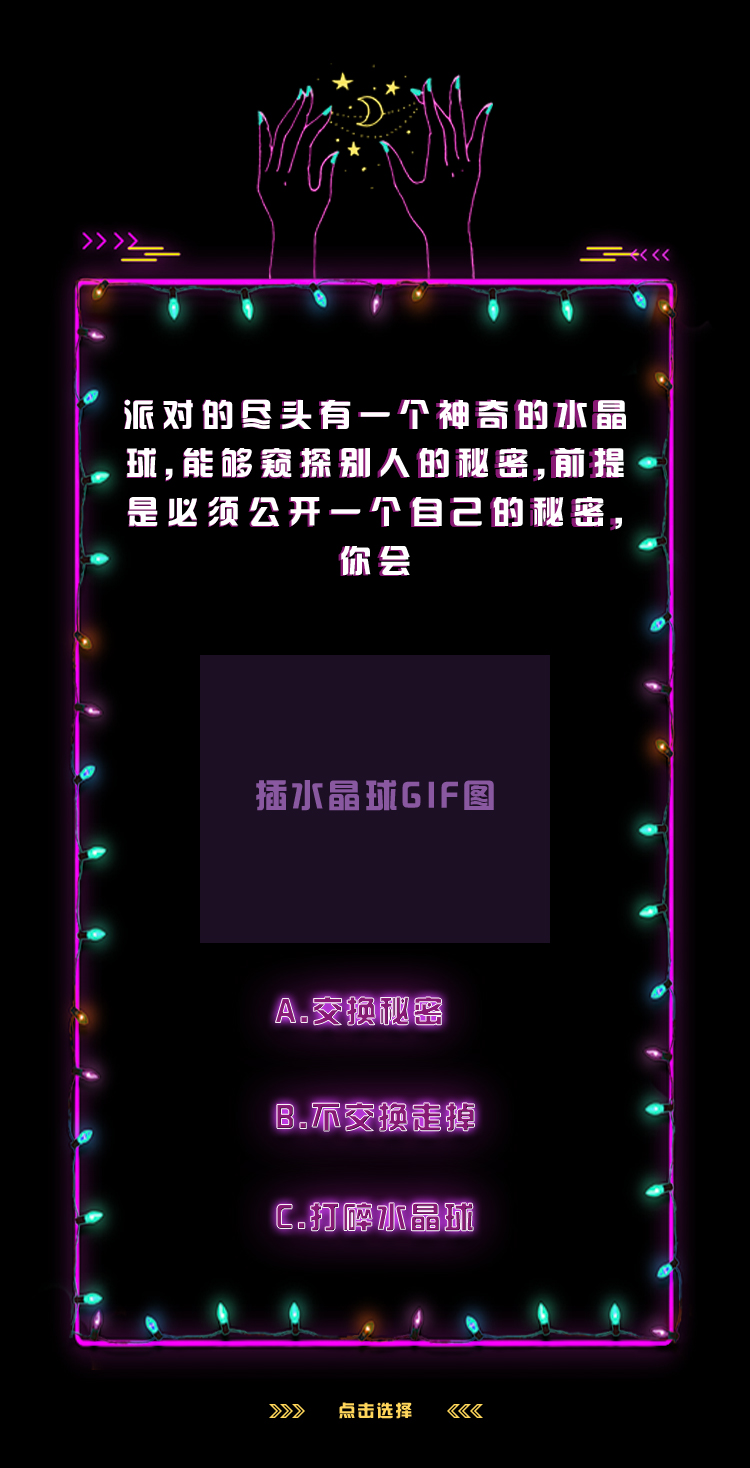
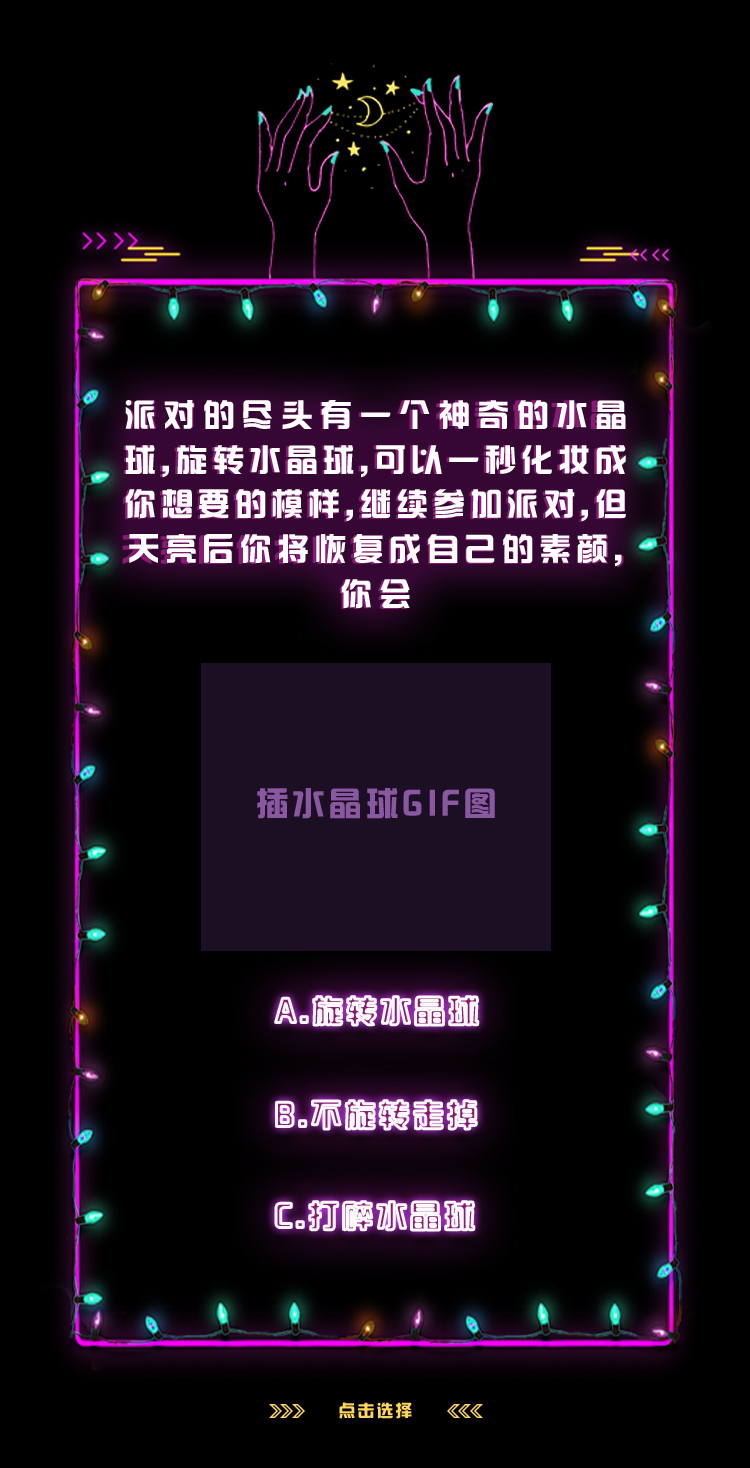
rough way

diff --git a/css/main.css b/css/main.css
@@ -467,22 +467,39 @@ body,html{
     background-position: center center;
     background-size: cover;
     z-index: 30;
-
     opacity: 1;
 }*/
 
 .quiz_three{
     width: 69vw;
     padding-left: 1.5vw;
+    font-size: 0.95rem;
     margin: 11vw auto 0 auto;
     text-align: justify;
     letter-spacing: 0.05rem;
     opacity: 0;
 }
+
+.quiz_three_1{
+    margin-top: 0vw;
+    letter-spacing: 0.22rem;
+}
+
+.quiz_three_2{
+    margin-top: 0vw;
+    letter-spacing: 0.22rem;
+}
+
+.quiz_three_3{
+    margin-top: 0vw;
+    letter-spacing: 0.24rem;
+}
+
 .quiz_three_br{
     text-align: center;
     margin-top: 0;
 }
+
 
 .top_three{
     width: 34.8vw;
@@ -1013,9 +1030,30 @@ letter-spacing: 0.26rem;
     .quiz_three {
         width: 68vw;
         padding-left: 1.5vw;
-        margin: 9.8vw auto 0 auto;
+        margin: 13.8vw auto 0 auto;
         text-align: justify;
-        font-size: 0.95rem;
+        font-size: 0.93rem;
+        letter-spacing: 0.29rem;
+    }
+
+    .quiz_three_1{
+       margin-top: -1vw;
+        letter-spacing: 0.22rem;
+    }
+
+    .quiz_three_2{
+        margin-top: -0.2vw;
+        letter-spacing: 0.22rem;
+    }
+
+    .quiz_three_3{
+        margin-top: -0.7vw;
+        letter-spacing: 0.24rem;
+    }
+
+    .quiz_three_br{
+        text-align: center;
+        margin-top: 0;
     }
 
     /*.q3_crystalContainer{

diff --git a/index.html b/index.html
@@ -156,8 +156,11 @@
                 <div class="q1_light"></div>
             </div>
             <div class="content absolute">
-                <p class="WrtType question quiz_three">派对的尽头有一个神奇的水晶球，旋转水晶球，可以一秒化妆成你想要的模样，继续参加派对，但天亮后你将恢复成自己的素颜，你会</p>
-                <p class="WrtType question quiz_three quiz_three_br"></p>
+                <p class="WrtType question quiz_three">派对的尽头有一个神奇的水晶</p>
+                <p class="WrtType question quiz_three quiz_three_1">球,旋转水晶球,可以一秒化妆成</p>
+                <p class="WrtType question quiz_three quiz_three_2">你想要的模样,继续参加派对,但</p>
+                <p class="WrtType question quiz_three quiz_three_3">天亮后你将恢复成自己的素颜,</p>
+                <p class="WrtType question quiz_three quiz_three_br">你会</p>
                 <!--插入gif-->
                 <div class="q3_crystalContainer watch_three quiz_three">
                     <img class="q3_crystal" src="images/crystal.gif" alt="crystal"/>
